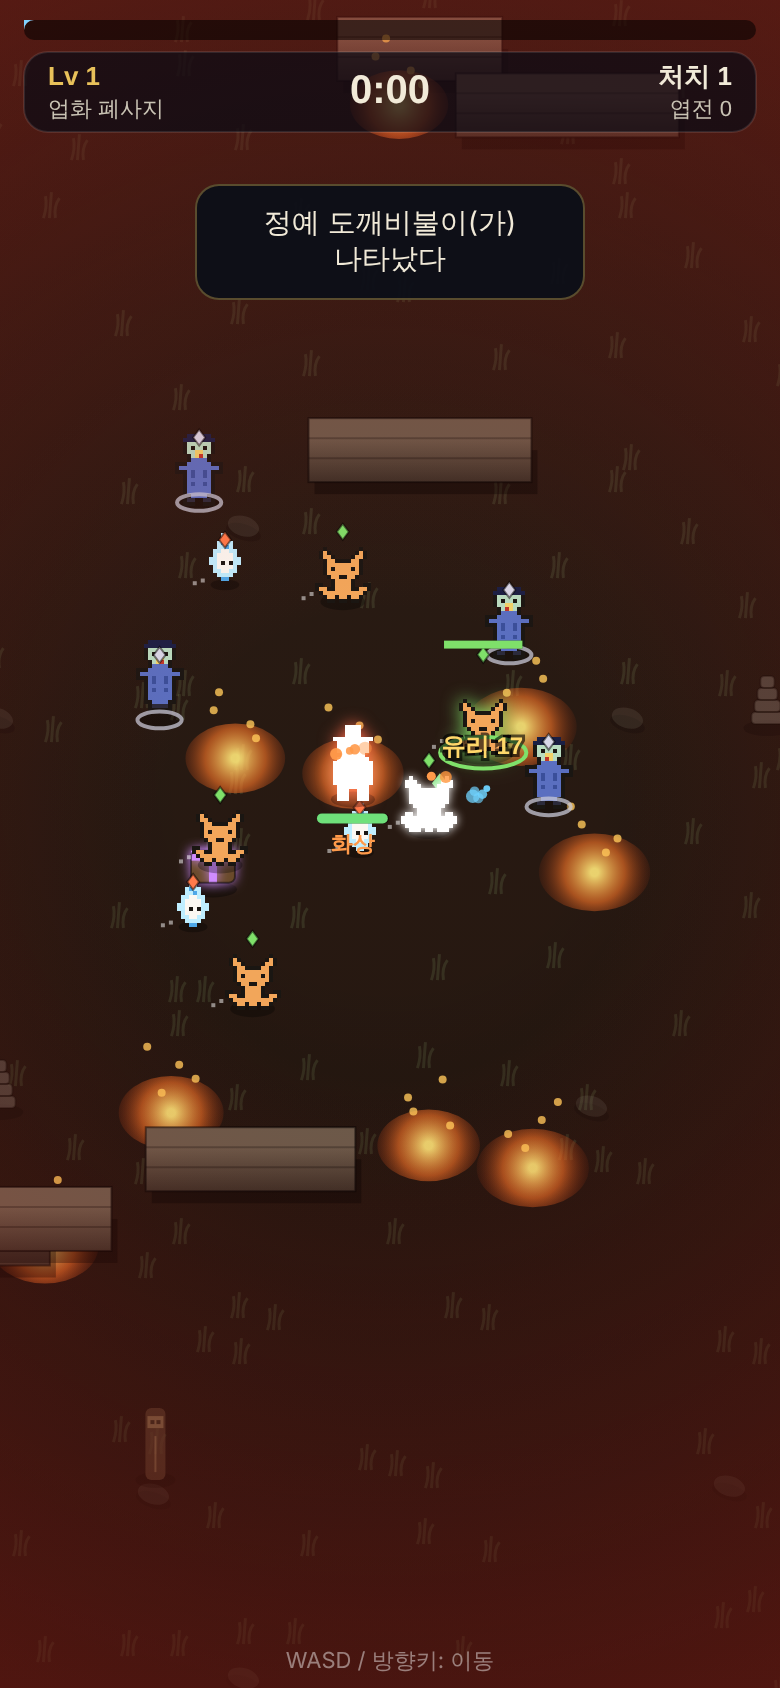
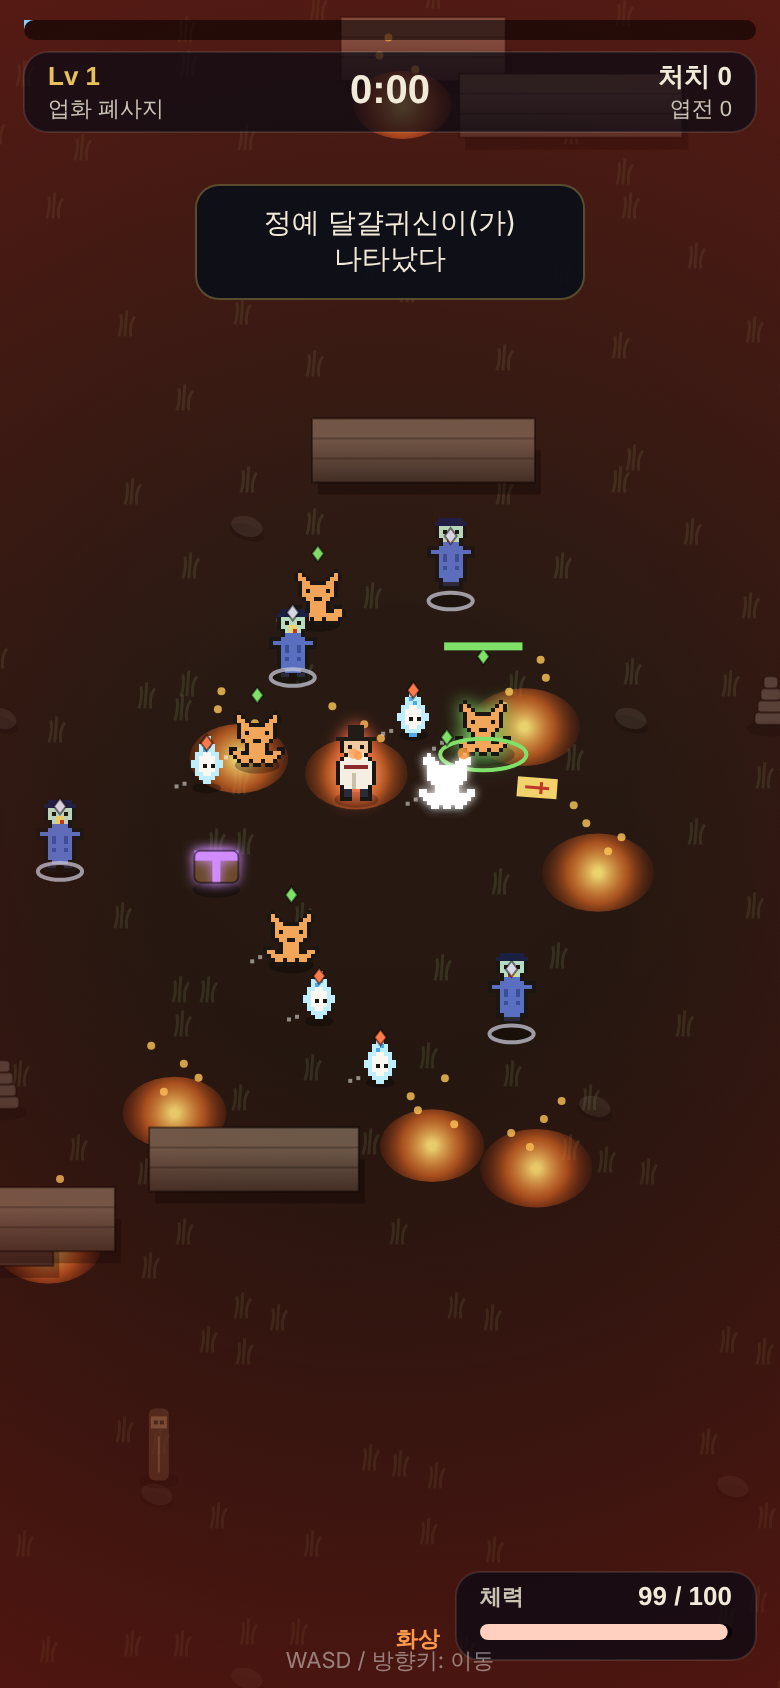
밤의 퇴마사 v5: 접촉 피해 한 방 단위·HP 패널 우하단·정예 상자 결과 상세
- 접촉: 드립(1.1/s) → 닿을 때 일반 3/정예 6/보스 14, 적별 1초 쿨다운, 밀림·흔들림·숫자
- HP 바: 캐릭터 아래 → 우측 하단 패널(숫자, 저체력 점멸, 화상/둔화)
- 상자: 무기 아이콘·속성·Lv a→b·강화 설명·최대 표시

Claude-Session: https://claude.ai/code/session_01RmJvEQYZMU41pMZMsu4AKq

diff --git a/docs/04-night-exorcist/design.md b/docs/04-night-exorcist/design.md
@@ -99,3 +99,8 @@ challenge(n) = 1 + 0.975·(1 − 0.86^n)     (밤 단계)
 - 시뮬 게이트(`sim/deck-sim.mjs`, 결과 `deck-gate-result.txt`): 귀신의 숲 맞춤 덱 ×1.38 / 중간 ×1.05 / 역상성 ×0.75, 업화 폐사지 ×1.30 / ×0.75 → NORMAL 맞춤 클리어·중간 7분+·역상성 3분 미만 전부 PASS
 - 봇 실측(`sim/bot-deck.mjs`, 메타 0, 결과 `bot-deck-result.txt`): 같은 덱이 런마다 클리어↔3분 사망으로 갈릴 만큼 **분산이 커서 판단 근거로 못 씀** (회피봇이 레벨업 선택·보석 줍기를 못 함). 덱 방향성은 deck-sim 으로만 확인, 실제 보정은 6일차 over 분포로
 - 테스트: `sim/m2-test.mjs` 16/16 (상성표·v1→v2·첫 3런·수련·뽑기 20회·덱 10 상한·덱 내 3택1·실피해·챌린지 시드 재현·랭킹 POST)
+
+## 11. 호원 피드백 2차 (10/03 오후, v5)
+- "HP가 안 깎인다" → 의도는 접촉 드립(1.1/s·마리, 회복 0.35/s)이라 한 마리로는 2분 걸림 = 체감 0. **접촉을 한 방 단위로**: 닿을 때마다 일반 3 · 정예 6 · 보스 14, 적별 1초 쿨다운, 플레이어 살짝 밀림 + 흔들림 + "-3" 숫자 + 타격음. 총량은 비슷(3/s·마리)하되 느껴지게. 6일차 over 분포로 다시 봄
+- HP 바 캐릭터 아래 → **우측 하단 패널** (숫자 24/100, 30% 미만 붉게 점멸, 화상/둔화 표시)
+- 정예 상자 결과: 무기 아이콘 + 속성·타입 + Lv a→b + 강화 설명 + 최대 표시, 제목에 "정예 ○○ 퇴치 보상 · 강화 N회"
